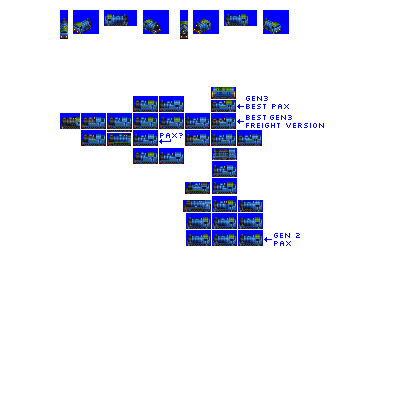
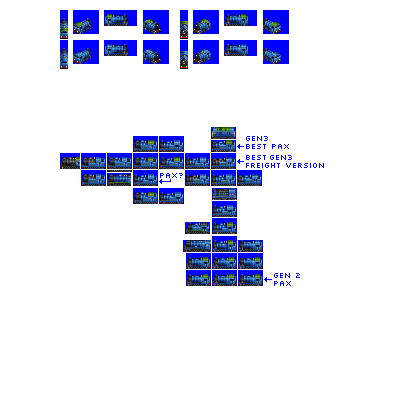
Change: additional banger blue livery for Decapod

diff --git a/src/vehicles/decapod.py b/src/vehicles/decapod.py
@@ -18,9 +18,8 @@ def main(roster_id):
         tractive_effort_coefficient=0.2,
         fixed_run_cost_points=120,  # substantial cost bonus so it can make money
         random_reverse=True,
-        additional_liveries=[],
+        additional_liveries=["BANGER_BLUE"],
         sprites_complete=True,
-        sprites_additional_liveries_needed=True, # banger blue?
     )
 
     consist.add_unit(type=SteamEngineUnit, weight=54, vehicle_length=6, spriterow_num=0)
